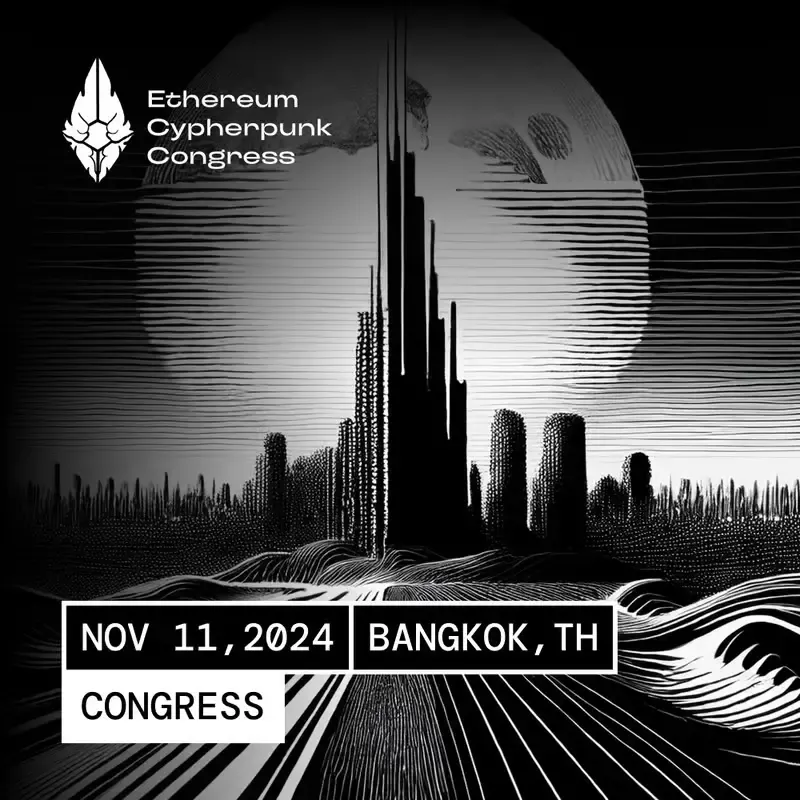
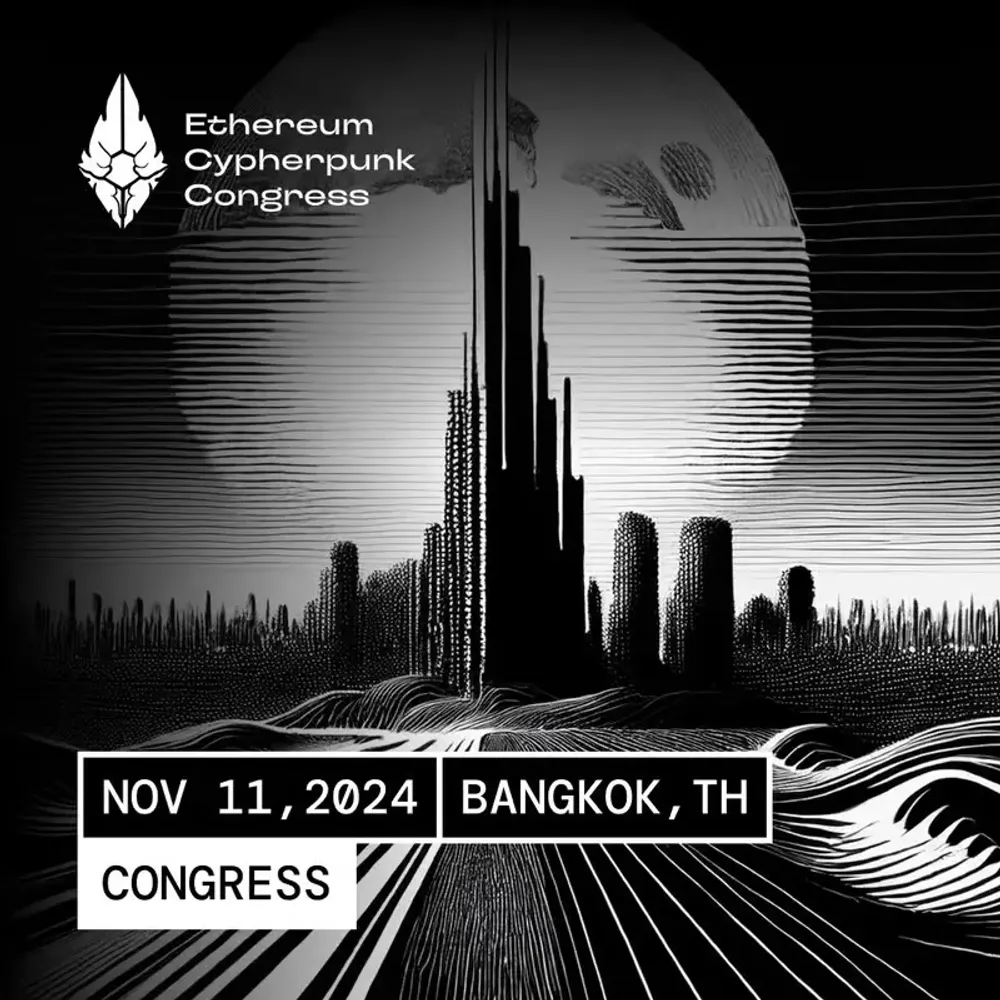
update imgs

diff --git a/lib/engine/events.js b/lib/engine/events.js
@@ -4,7 +4,7 @@ import { convert } from '../image.js';
 const sizes = [
     ["s", 260],
     ["m", 500],
-    ["l", 800],
+    ["l", 1000],
 ]
 
 export default class Engine extends DefaultEngine {
